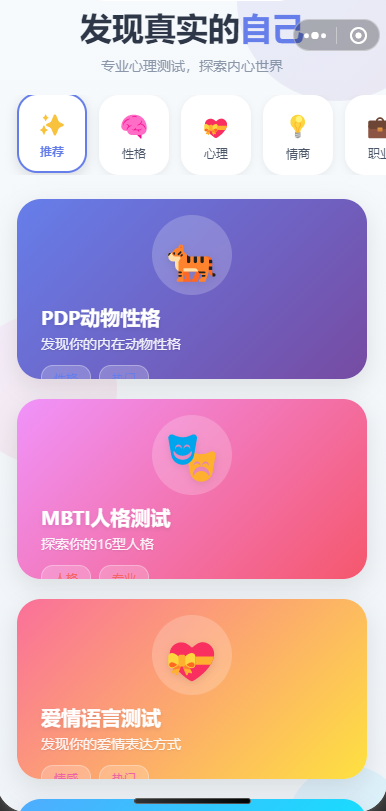
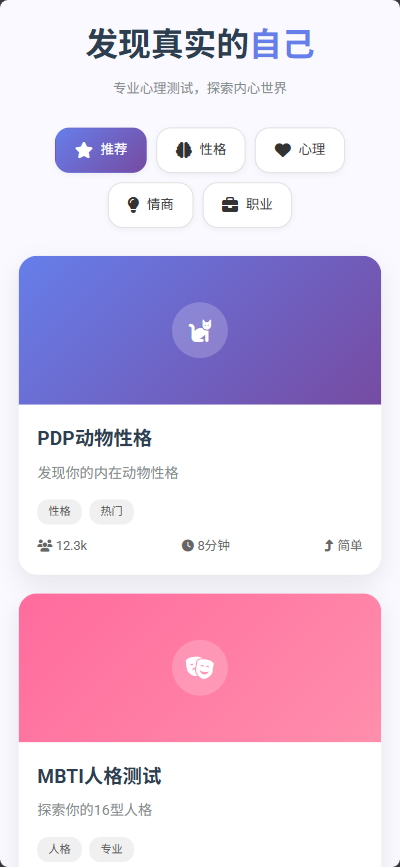
UI

diff --git a/src/pages/index.vue b/src/pages/index.vue
@@ -22,11 +22,11 @@ const categories = [
 const tests = [
   {
     id: 1,
-    title: 'PDP动物性格',
-    subtitle: '发现你的内在动物性格',
+    title: 'PDP动物性格测试',
+    subtitle: '发现你内在的动物性格',
     icon: '🐅',
     color: '#667eea',
-    bgColor: 'linear-gradient(135deg, #667eea 0%, #764ba2 100%)',
+    bgColor: 'linear-gradient(135deg, #8B5CF6 0%, #7C3AED 100%)',
     tags: ['性格', '热门'],
     participants: '12.3k',
     time: '8分钟',
@@ -37,8 +37,8 @@ const tests = [
     title: 'MBTI人格测试',
     subtitle: '探索你的16型人格',
     icon: '🎭',
-    color: '#f56565',
-    bgColor: 'linear-gradient(135deg, #f093fb 0%, #f5576c 100%)',
+    color: '#3B82F6',
+    bgColor: 'linear-gradient(135deg, #3B82F6 0%, #1D4ED8 100%)',
     tags: ['人格', '专业'],
     participants: '8.7k',
     time: '12分钟',
@@ -46,27 +46,27 @@ const tests = [
   },
   {
     id: 3,
-    title: '爱情语言测试',
-    subtitle: '发现你的爱情表达方式',
-    icon: '💝',
-    color: '#ed64a6',
-    bgColor: 'linear-gradient(135deg, #fa709a 0%, #fee140 100%)',
-    tags: ['情感', '热门'],
+    title: '真实年龄测试',
+    subtitle: '测测你的心理年龄',
+    icon: '🎂',
+    color: '#8B5CF6',
+    bgColor: 'linear-gradient(135deg, #8B5CF6 0%, #7C3AED 100%)',
+    tags: ['趣味', '热门'],
     participants: '15.2k',
     time: '6分钟',
     difficulty: '简单',
   },
   {
     id: 4,
-    title: '隐藏人格测试',
-    subtitle: '揭示你内心的真实面貌',
-    icon: '👤',
-    color: '#4299e1',
-    bgColor: 'linear-gradient(135deg, #4facfe 0%, #00f2fe 100%)',
-    tags: ['心理', '深度'],
+    title: '爱情语言测试',
+    subtitle: '发现你的爱情表达方式',
+    icon: '💝',
+    color: '#3B82F6',
+    bgColor: 'linear-gradient(135deg, #3B82F6 0%, #1D4ED8 100%)',
+    tags: ['情感', '热门'],
     participants: '6.8k',
-    time: '15分钟',
-    difficulty: '困难',
+    time: '10分钟',
+    difficulty: '简单',
   },
 ]
 
@@ -236,7 +236,7 @@ function startTest(testId: number) {
 <style lang="scss" scoped>
 .home-container {
   min-height: 100vh;
-  background: linear-gradient(180deg, #f7fafc 0%, #edf2f7 100%);
+  background: #F8F9FA;
   position: relative;
   overflow: hidden;
 }
@@ -261,7 +261,7 @@ function startTest(testId: number) {
 .circle-1 {
   width: 200px;
   height: 200px;
-  background: linear-gradient(135deg, #667eea 0%, #764ba2 100%);
+  background: linear-gradient(135deg, #8B5CF6 0%, #7C3AED 100%);
   top: -50px;
   right: -50px;
   animation: float 6s ease-in-out infinite;
@@ -270,7 +270,7 @@ function startTest(testId: number) {
 .circle-2 {
   width: 150px;
   height: 150px;
-  background: linear-gradient(135deg, #f093fb 0%, #f5576c 100%);
+  background: linear-gradient(135deg, #3B82F6 0%, #1D4ED8 100%);
   top: 30%;
   left: -30px;
   animation: float 8s ease-in-out infinite;
@@ -279,7 +279,7 @@ function startTest(testId: number) {
 .circle-3 {
   width: 120px;
   height: 120px;
-  background: linear-gradient(135deg, #4facfe 0%, #00f2fe 100%);
+  background: linear-gradient(135deg, #8B5CF6 0%, #7C3AED 100%);
   bottom: 20%;
   right: -20px;
   animation: float 7s ease-in-out infinite;
@@ -420,28 +420,29 @@ function startTest(testId: number) {
 .test-section {
   position: relative;
   z-index: 10;
-  padding: 0 20px 80px;
+  padding: 0 16px 80px;
 }
 
 .test-grid {
   display: flex;
   flex-direction: column;
-  gap: 20px;
+  gap: 16px;
 }
 
 .test-card {
   position: relative;
-  min-height: 200px;
-  border-radius: 24px;
+  width: 100%;
+  height: 220px;
+  border-radius: 16px;
   overflow: hidden;
-  box-shadow: 0 8px 24px rgba(0, 0, 0, 0.1);
+  box-shadow: 0 4px 12px rgba(0, 0, 0, 0.08);
   transition: all 0.3s ease;
   cursor: pointer;
 }
 
 .test-card:active {
-  transform: scale(0.98);
-  box-shadow: 0 4px 16px rgba(0, 0, 0, 0.15);
+  transform: scale(0.97);
+  box-shadow: 0 2px 8px rgba(0, 0, 0, 0.12);
 }
 
 .card-bg {
